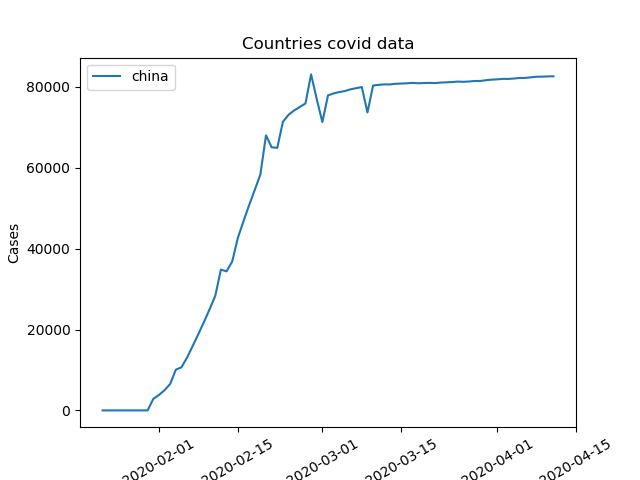
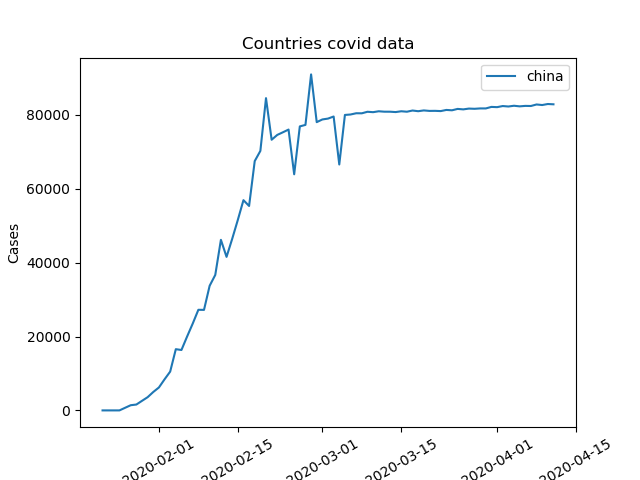
added growth

diff --git a/covid-data/coviddata.py b/covid-data/coviddata.py
@@ -173,7 +173,7 @@ def generate_graphs(countries,filename):
         xgrow[i].pop()
         ygrow[i].pop()
         
-    (yconvval,yconvgrow)=apply_convolution(x,y,xgrow,ygrow,10)
+    (yconvval,yconvgrow)=apply_convolution(x,y,xgrow,ygrow,5)
     
     pred=[]
     for i in range(len(yconvval)):
@@ -181,7 +181,13 @@ def generate_graphs(countries,filename):
         yi=yconvval[i]
         yj=y[i]
         predval=(yj[len(yj)-2]/yi[len(yi)-2])*yi[len(yi)-1]
-        pred.append({"country":countries[i],"val":predval,"date":str(xi[len(xi)-1])})
+        
+        xig=xgrow[i]
+        yig=yconvgrow[i]
+        yjg=ygrow[i]
+        predgrow=yig[len(yig)-1]#"""(yjg[len(yjg)-2]/yig[len(yig)-2])*"""
+        
+        pred.append({"country":countries[i],"val":predval,"growth":predgrow,"date":str(xi[len(xi)-1])})
         
     today=datetime.datetime.today()
     file = open(str(today.day)+"_"+str(today.month)+filename+"prediction.txt", "w")
